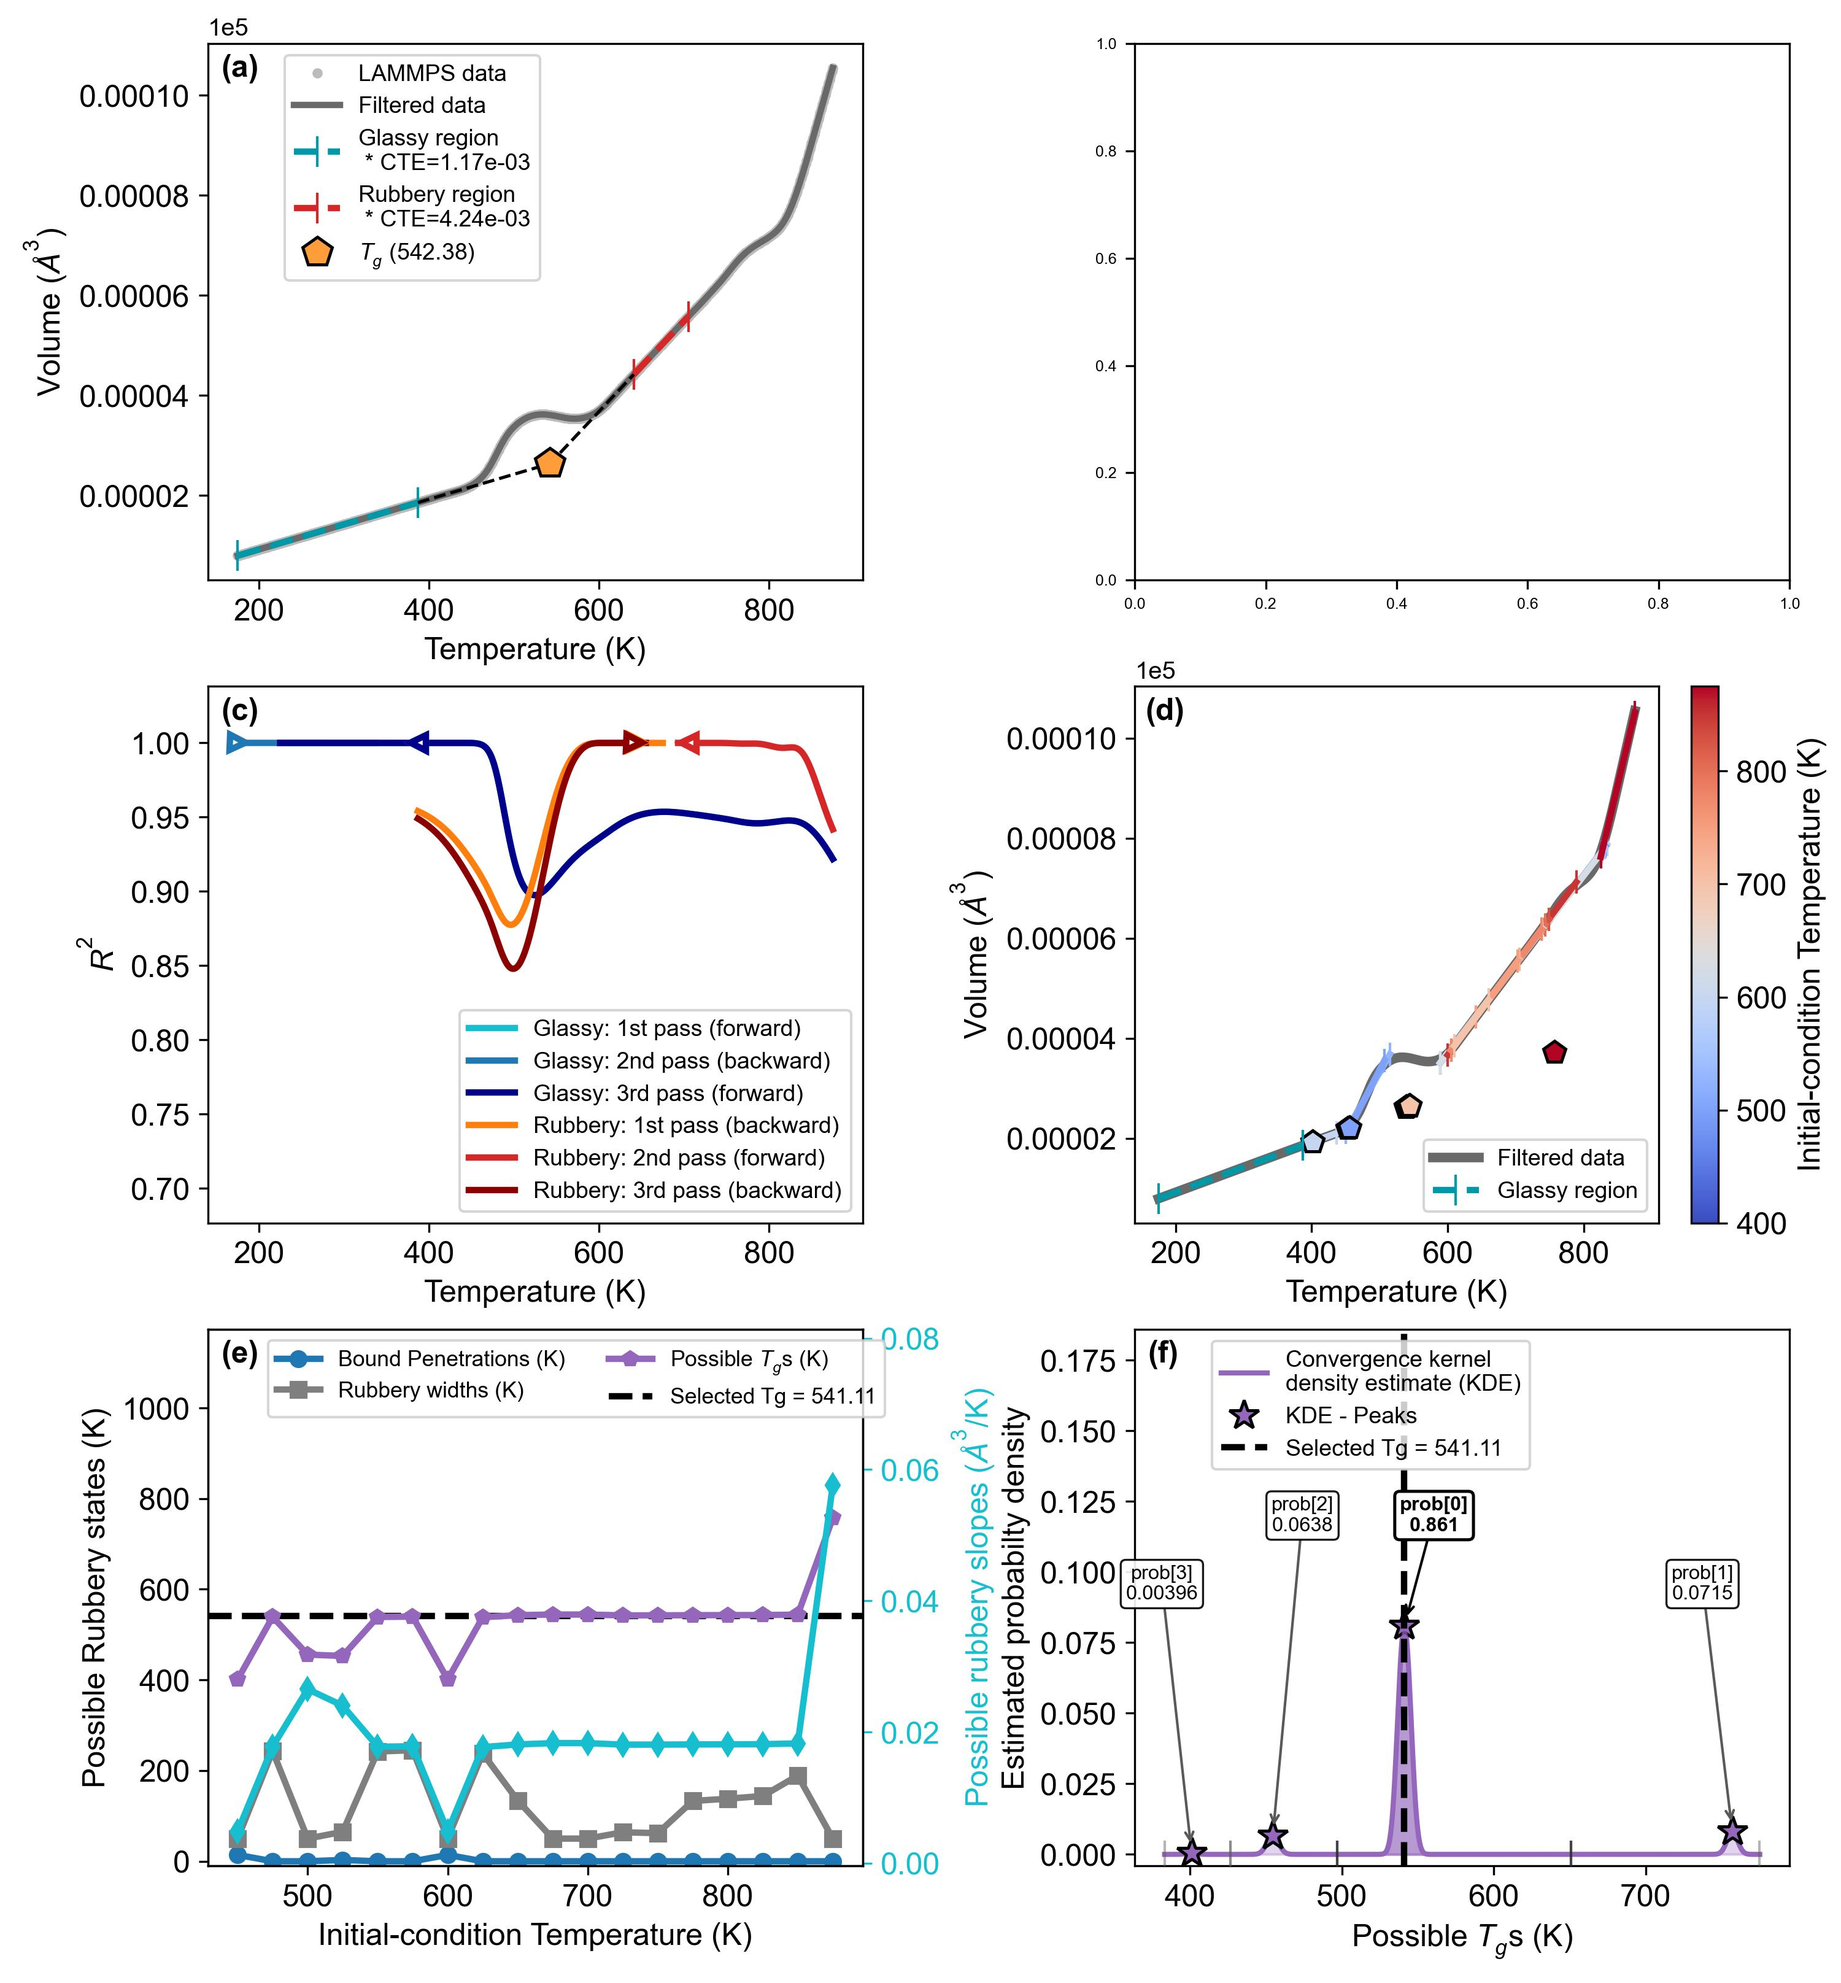
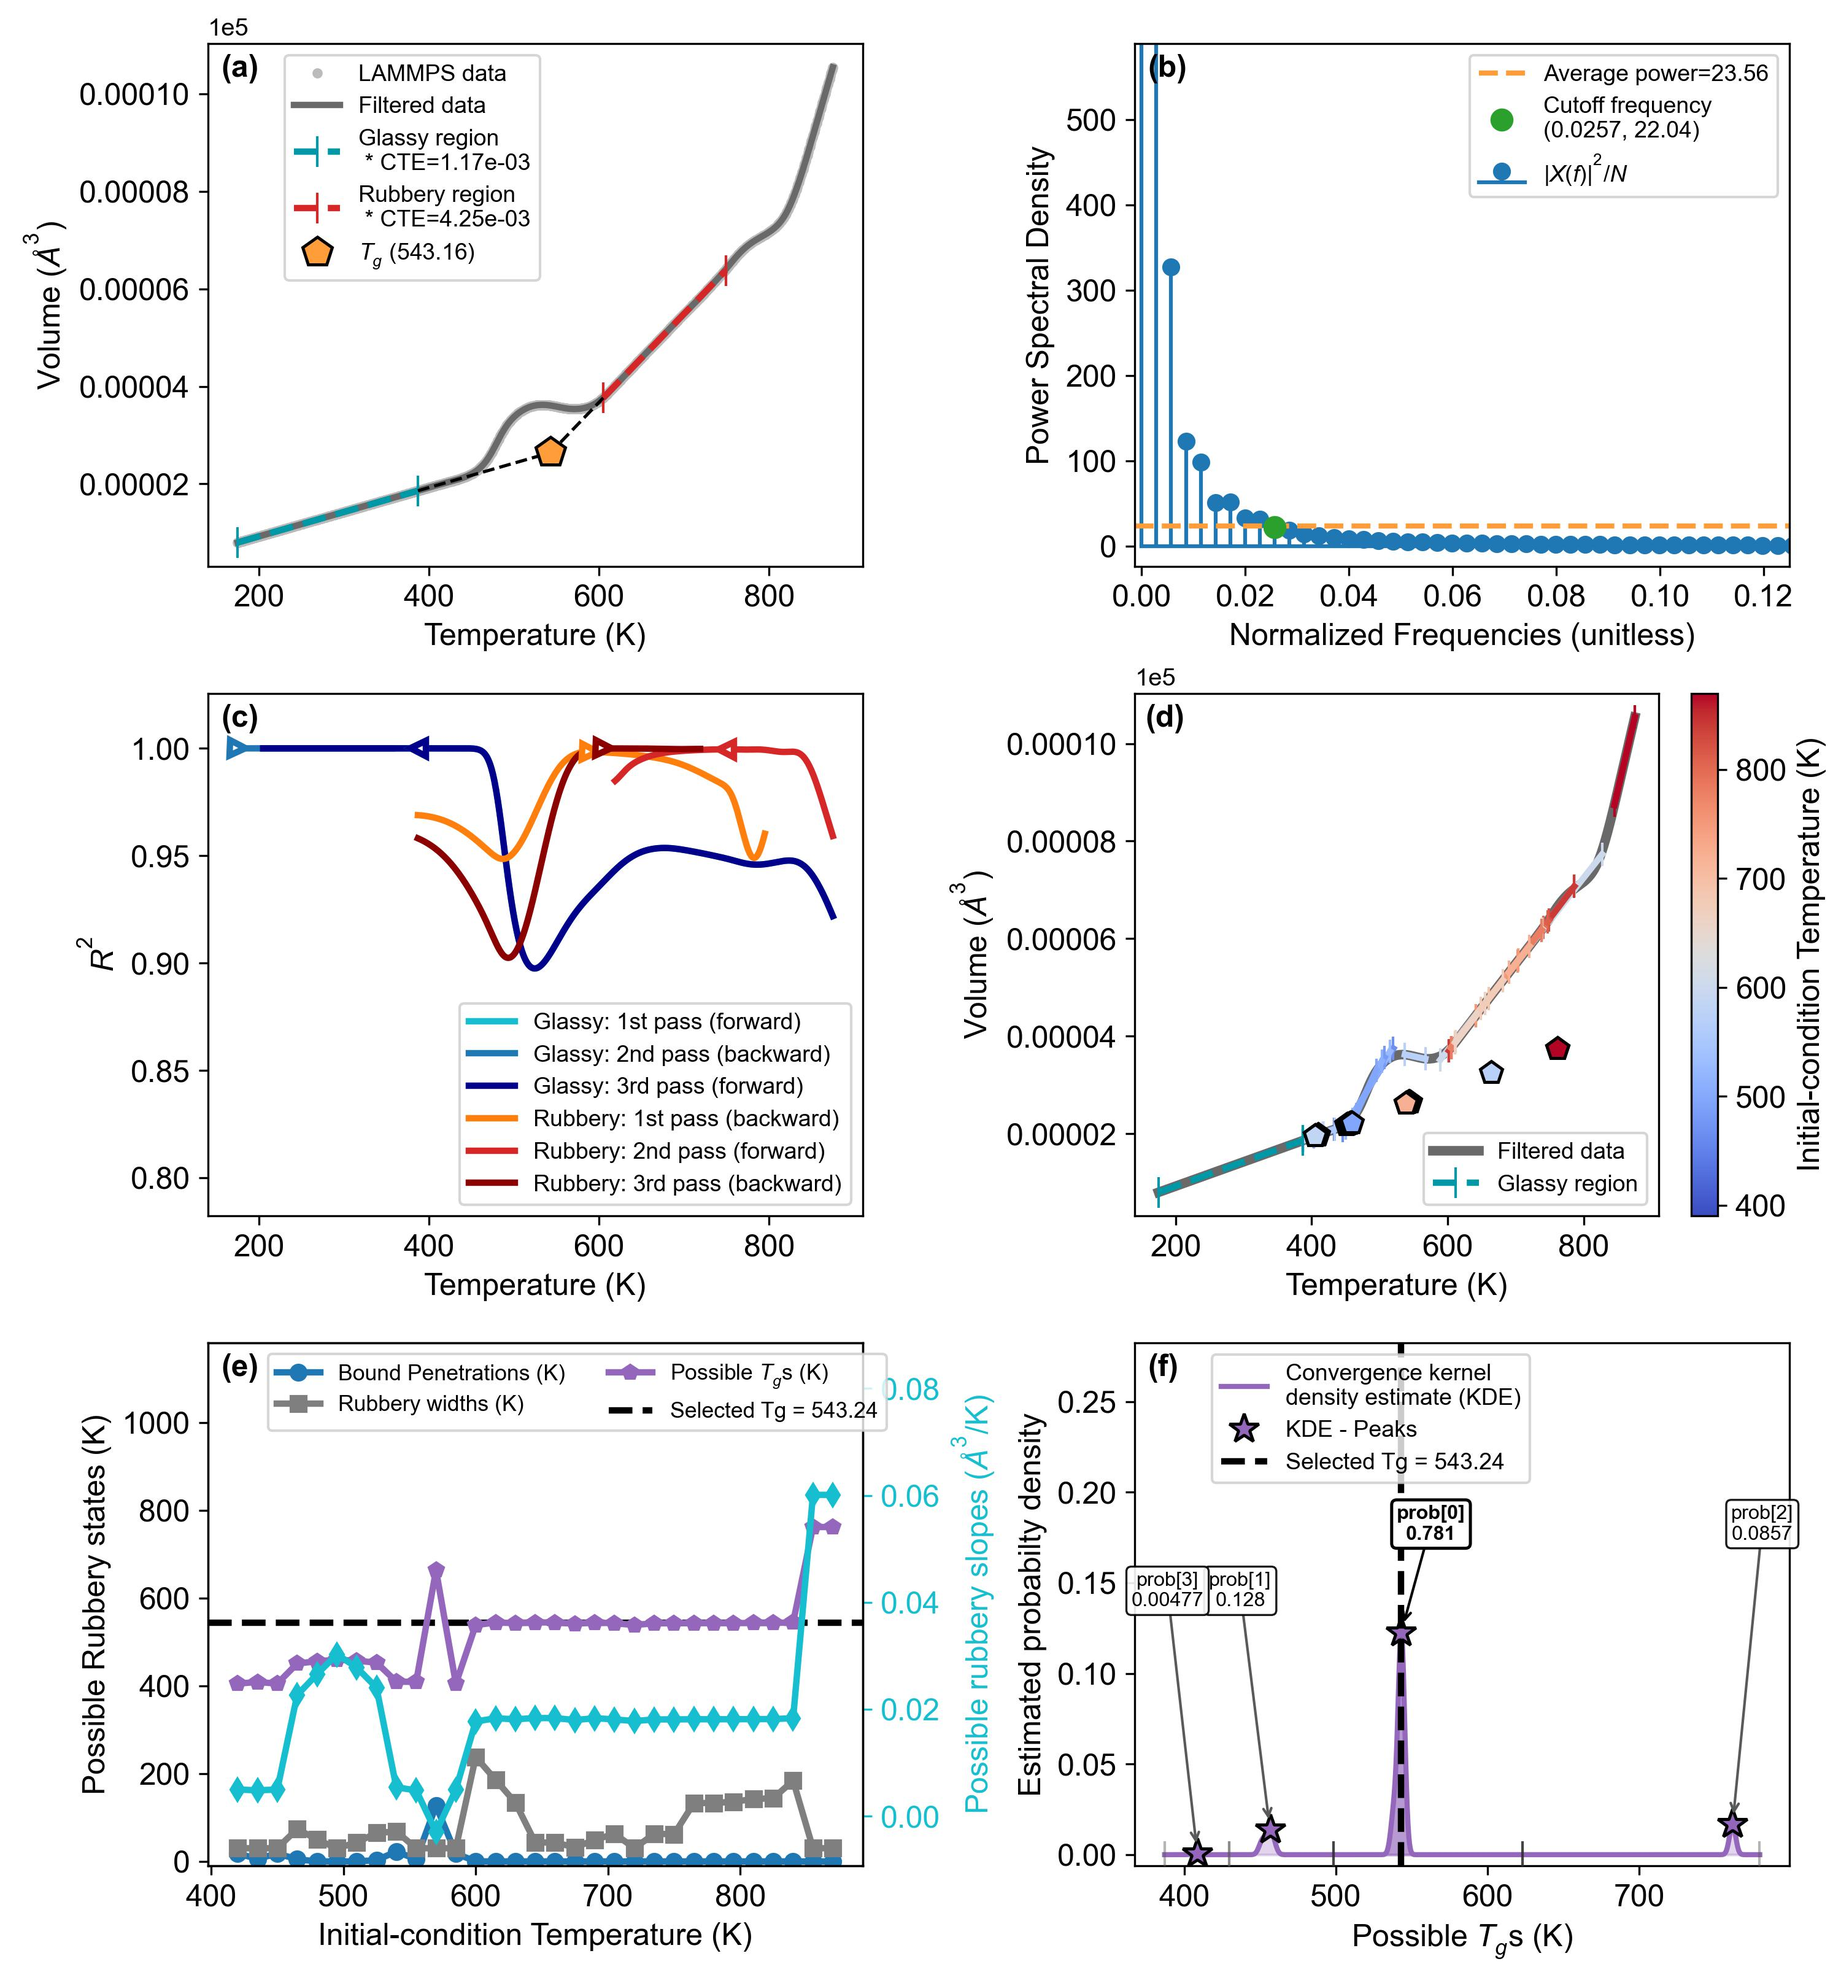
RFR-thermal version 03November2026

diff --git a/example_synthetic.py b/example_synthetic.py
@@ -98,7 +98,7 @@ sections = 'all' # earlier section are setting up the temperature ramp
 #   plot_orientation = 'long' # makes plot long vertically (good for papers)
 #   plot_orientation = 'wide' # makes plot wide vertically (good for presentations)
 plot_orientation = 'long'
-plot_orientation = 'wide'
+#plot_orientation = 'wide'
 
 
 ######################
